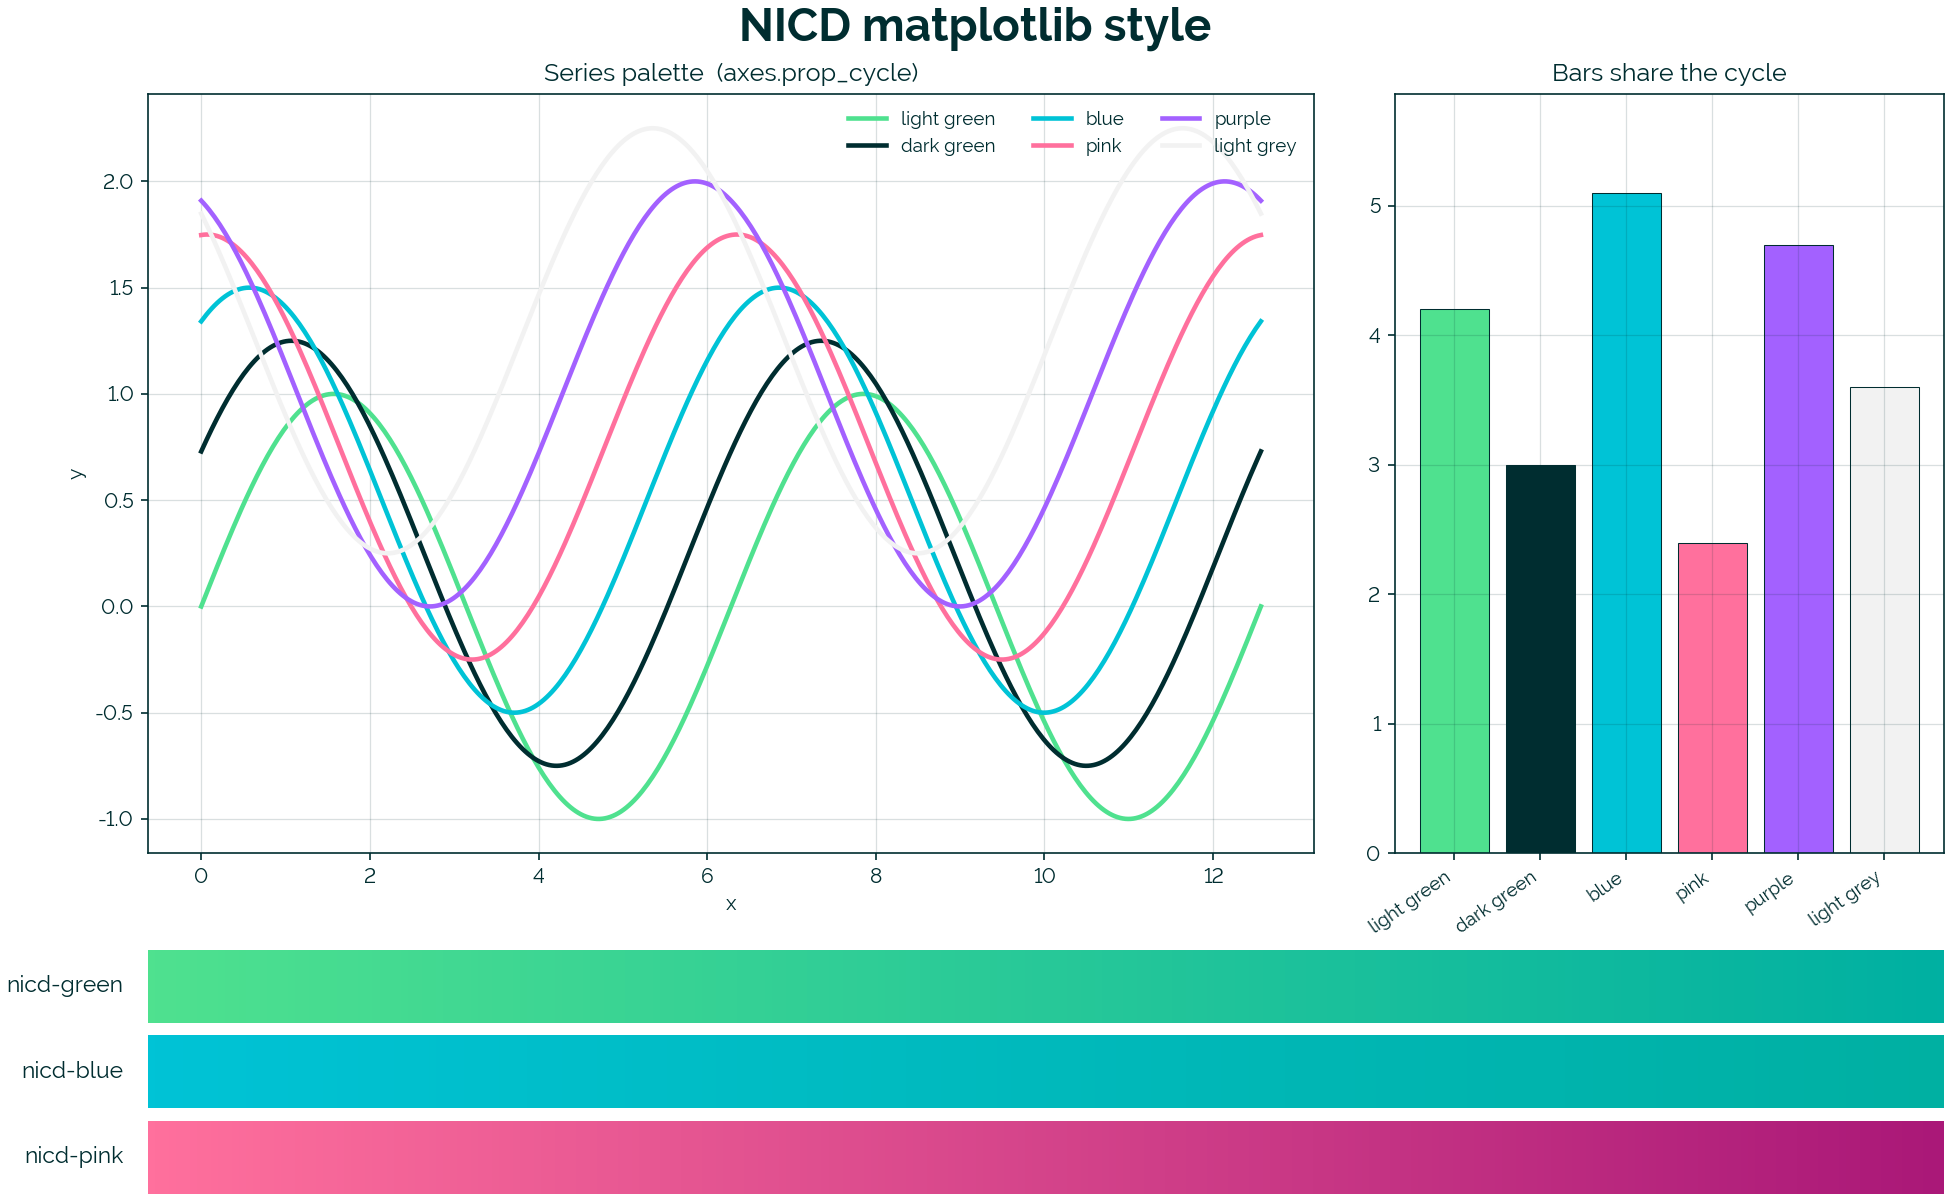
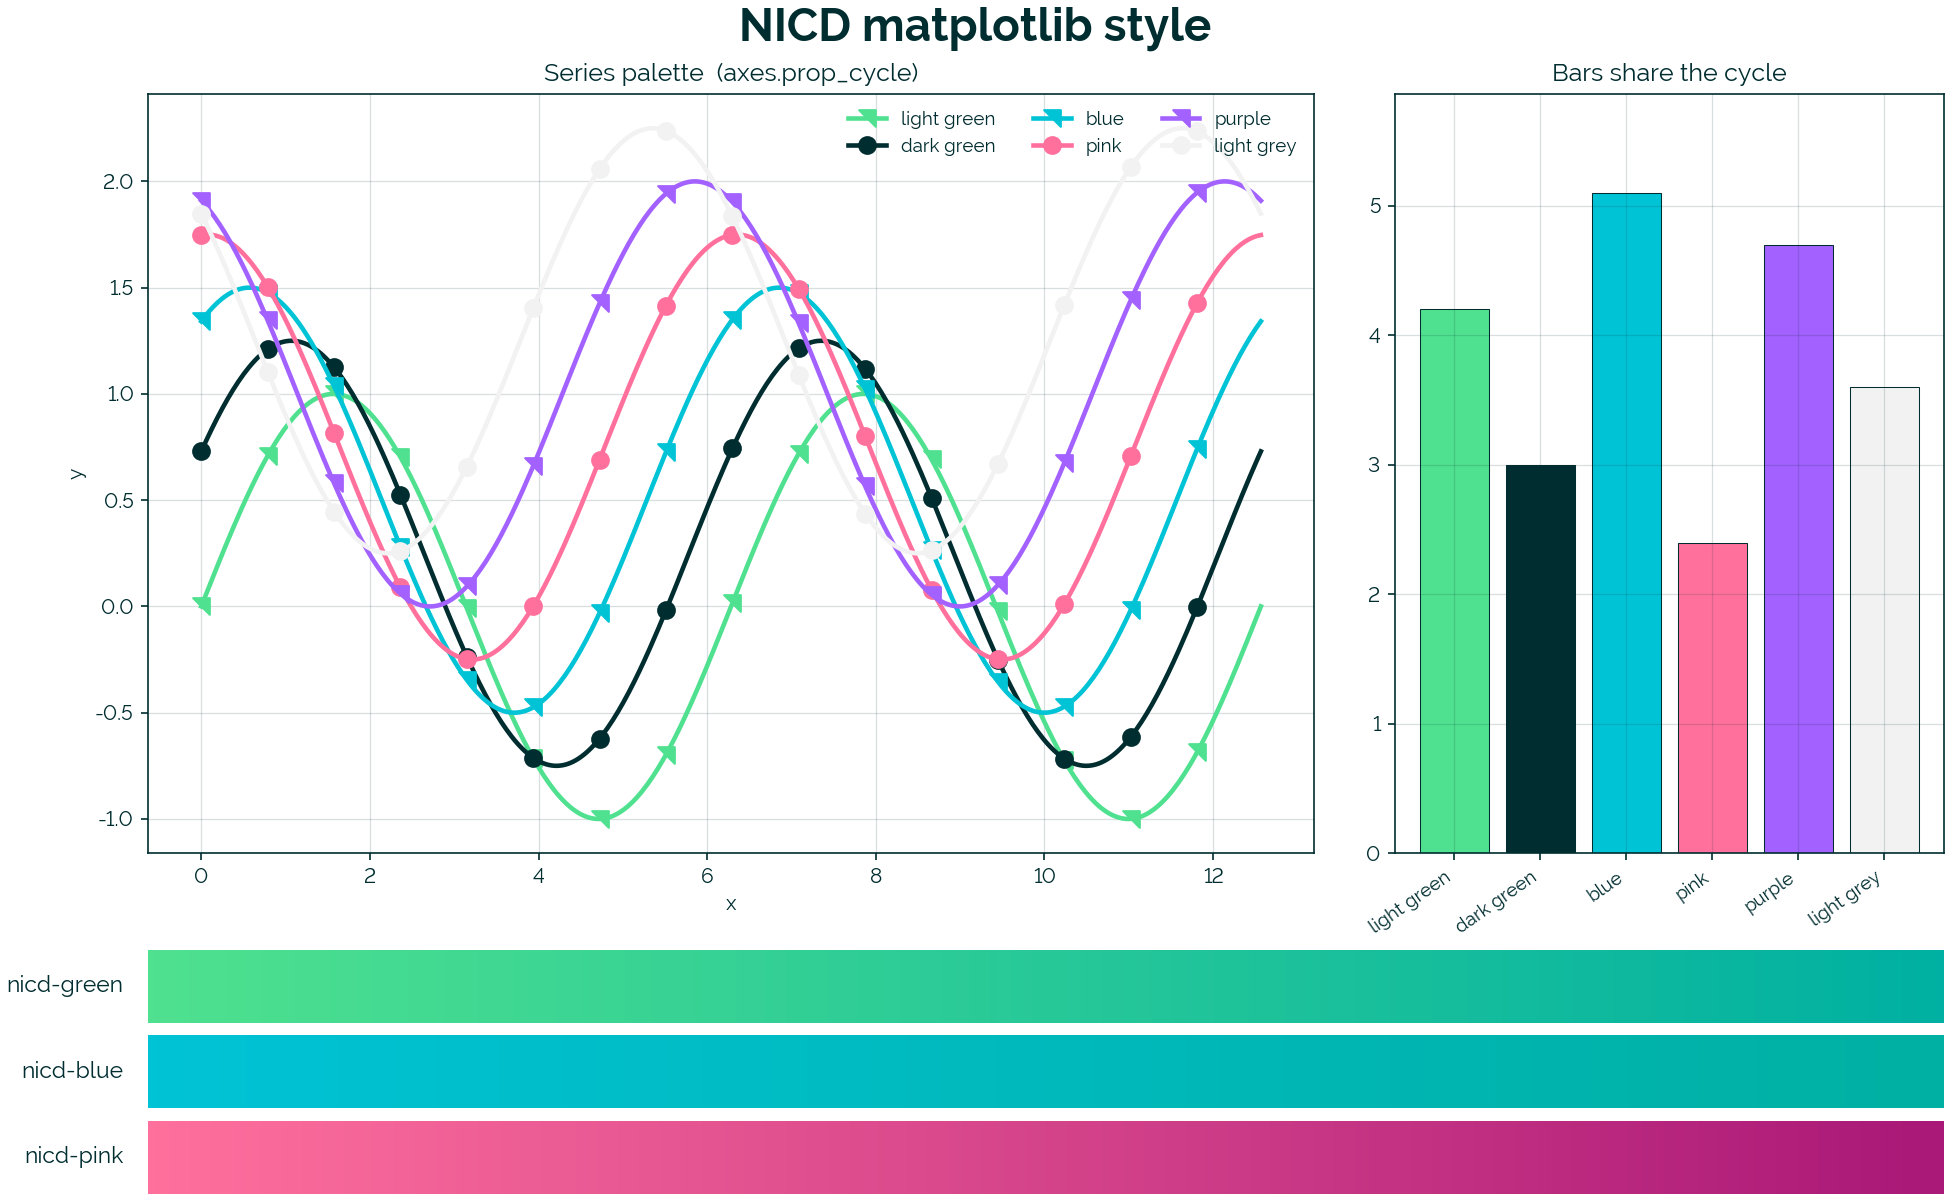
Add right-triangle + circle marker cycle as the NICD default
A new RIGHT_TRIANGLE Path (right angle at top-right) and a nicd_palette.use()
entry point pair the colour cycle with a marker cycle. mplstyle files can't
carry Path objects, so the marker half is wired up in Python and the rcParams
validator is bypassed via dict.__setitem__.

diff --git a/nicd_palette.py b/nicd_palette.py
@@ -2,13 +2,16 @@
 
 Companion to ``~/.matplotlib/stylelib/nicd.mplstyle``. The mplstyle file
 sets the discrete series palette and font, but matplotlib stylesheets
-can't register colormaps — that has to happen in code. Import this module
-once per process to add the three gradients (``nicd-green``, ``nicd-blue``,
-``nicd-pink``):
+can't register colormaps or carry ``Path``-based markers — those have to
+happen in code. Import this module once per process to add the three
+gradients (``nicd-green``, ``nicd-blue``, ``nicd-pink``) and the named
+colours; call :func:`use` to apply the full style including the marker
+cycle:
 
     import sys, pathlib
     sys.path.insert(0, str(pathlib.Path.home() / ".matplotlib"))
-    import nicd_palette  # noqa: F401  -- registers cmaps as a side-effect
+    import nicd_palette
+    nicd_palette.use()             # style + colours + markers
 
     plt.imshow(arr, cmap="nicd-green")
 
@@ -16,9 +19,11 @@ Each colormap is also registered in its ``_r`` reversed form.
 """
 from __future__ import annotations
 
+from cycler import cycler
 import matplotlib as mpl
 from matplotlib import colors as mcolors
 from matplotlib.colors import LinearSegmentedColormap
+from matplotlib.path import Path
 
 # Named series colours, namespaced ``nicd:`` to mirror matplotlib's own
 # ``tab:`` palette and avoid clashing with CSS names ("pink" / "purple"
@@ -37,6 +42,17 @@ _GRADIENTS = {
     "nicd-blue":  ("#00c3d6", "#00b0a2"),
     "nicd-pink":  ("#ff709d", "#aa1878"),
 }
+
+# Right triangle with the right angle at the top-right corner. Vertices
+# span [-1, 1] to match matplotlib's built-in triangle markers, so it
+# scales identically under ``markersize``.
+RIGHT_TRIANGLE = Path(
+    [(1.0, 1.0), (-1.0, 1.0), (1.0, -1.0), (1.0, 1.0)],
+    [Path.MOVETO, Path.LINETO, Path.LINETO, Path.CLOSEPOLY],
+)
+
+# Default marker cycle: the right triangle, then a circle, repeating.
+_MARKER_CYCLE = [RIGHT_TRIANGLE, "o"]
 
 
 def _register() -> None:
@@ -60,3 +76,24 @@ def _register() -> None:
 
 
 _register()
+
+
+def use() -> None:
+    """Apply the NICD style with the marker cycle wired up.
+
+    Equivalent to ``plt.style.use("nicd")`` plus an ``axes.prop_cycle``
+    override that pairs each series colour with a marker. The mplstyle
+    file can carry the colour cycle but not ``Path``-based markers, so
+    the marker half is set here.
+    """
+    import matplotlib.pyplot as plt
+
+    plt.style.use("nicd")
+    colours = list(_NAMED_COLOURS.keys())
+    markers = [_MARKER_CYCLE[i % len(_MARKER_CYCLE)] for i in range(len(colours))]
+    combined = cycler(color=colours) + cycler(marker=markers)
+    # RcParams.__setitem__ validates ``axes.prop_cycle`` markers as string|int
+    # only, rejecting Path objects. Downstream consumers (Axes._get_lines /
+    # Line2D.set_marker) handle Path markers fine, so bypass validation via
+    # the underlying dict to wire the cycle through.
+    dict.__setitem__(plt.rcParams, "axes.prop_cycle", combined)

diff --git a/demo.py b/demo.py
@@ -35,7 +35,7 @@ GRADIENTS = ["nicd-green", "nicd-blue", "nicd-pink"]
 
 
 def main() -> None:
-    plt.style.use("nicd")
+    nicd_palette.use()
 
     fig = plt.figure(figsize=(13, 8), constrained_layout=True)
     fig.suptitle("NICD matplotlib style", fontsize=22, fontweight="bold")
@@ -46,7 +46,14 @@ def main() -> None:
     ax_lines = fig.add_subplot(gs[0:2, :2])
     x = np.linspace(0, 4 * np.pi, 400)
     for i, label in enumerate(PALETTE_LABELS):
-        ax_lines.plot(x, np.sin(x + i * 0.5) + i * 0.25, linewidth=2.2, label=label)
+        ax_lines.plot(
+            x,
+            np.sin(x + i * 0.5) + i * 0.25,
+            linewidth=2.2,
+            markevery=25,
+            markersize=8,
+            label=label,
+        )
     ax_lines.set_title("Series palette  (axes.prop_cycle)")
     ax_lines.set_xlabel("x")
     ax_lines.set_ylabel("y")

diff --git a/README.md b/README.md
@@ -10,7 +10,7 @@ NICD brand.
 | File | What it provides |
 |---|---|
 | `nicd.mplstyle` | The style: series colour cycle, font (Derailed), grid/text colours, ASCII minus sign. |
-| `nicd_palette.py` | Registers the six named colours and three gradient colormaps with matplotlib at import time. |
+| `nicd_palette.py` | Registers the six named colours and three gradient colormaps at import time; exposes `use()` to apply the style plus the marker cycle. |
 | `demo.py` | Reproduces the image above. |
 
 ### Named colours (`nicd:` namespace)
@@ -33,6 +33,14 @@ NICD brand.
 | `nicd-pink`  | `#ff709d` → `#aa1878` |
 
 Each is also registered in its reversed `_r` form.
+
+### Marker cycle
+
+`nicd_palette.use()` pairs the colour cycle with a marker cycle:
+`RIGHT_TRIANGLE` (right angle at top-right) for odd-indexed series, `o`
+(circle) for even-indexed series, repeating to match the six-colour
+cycle. The triangle lives at `nicd_palette.RIGHT_TRIANGLE` if you want
+to address it directly.
 
 ## Install
 
@@ -66,11 +74,11 @@ sys.path.insert(0, str(pathlib.Path.home() / ".matplotlib"))
 import nicd_palette        # registers names + colormaps
 import matplotlib.pyplot as plt
 
-plt.style.use("nicd")      # series cycle + font + grid colours
+nicd_palette.use()         # style + colour cycle + marker cycle
 
-# Series colours come from the cycle automatically.
-ax.plot(x, a, label="A")
-ax.plot(x, b, label="B")
+# Series colours and markers come from the cycle automatically.
+ax.plot(x, a, label="A")   # light-green + right triangle
+ax.plot(x, b, label="B")   # dark-green + circle
 
 # Or address one by name.
 ax.fill_between(x, 0, y, color="nicd:light-green")
@@ -79,6 +87,10 @@ ax.fill_between(x, 0, y, color="nicd:light-green")
 ax.imshow(grid, cmap="nicd-green")
 ax.scatter(x, y, c=z, cmap="nicd-pink_r")
 ```
+
+If you only want the colours (no markers), use `plt.style.use("nicd")`
+directly — the marker half is only added by `nicd_palette.use()` because
+`Path`-based markers can't be expressed in an mplstyle file.
 
 `nicd_palette` must be imported **before** any draw call, because the style's
 `axes.prop_cycle` references the named colours rather than hex literals.
